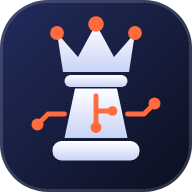
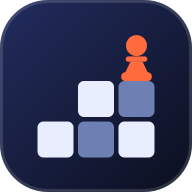
Add files via upload

Changed region(s): [[0.1562, 0.0625, 0.8438, 0.8438], [0.8125, 0.9688, 0.8438, 1.0], [0.1562, 0.9688, 0.1875, 1.0]]

diff --git a/frontend/src/app/dashboard/page.tsx b/frontend/src/app/dashboard/page.tsx
@@ -2,6 +2,13 @@
 import { useEffect, useState } from "react";
 import Link from "next/link";
 import InitBanner from "../../components/InitBanner";
+import type { Lang } from "../../lib/i18n";
+
+const SYNC = {
+  it: { dl: "Scaricate {n} nuove partite.", none: "Nessuna partita nuova da scaricare.", run: "Analizzo {d} di {t} partite…", queued: "C'è già un'analisi in corso: i risultati compaiono man mano.", done: "Fatto: {o} partite analizzate.", fail: "{f} partite non analizzate. Riprova tra poco: se il problema resta, le ritento stanotte." },
+  en: { dl: "Downloaded {n} new games.", none: "No new games to download.", run: "Analyzing {d} of {t} games…", queued: "An analysis is already running: results appear as they are ready.", done: "Done: {o} games analyzed.", fail: "{f} games could not be analyzed. Try again shortly: if it persists, I'll retry tonight." },
+  es: { dl: "Descargadas {n} partidas nuevas.", none: "No hay partidas nuevas que descargar.", run: "Analizando {d} de {t} partidas…", queued: "Ya hay un análisis en curso: los resultados aparecen poco a poco.", done: "Hecho: {o} partidas analizadas.", fail: "{f} partidas sin analizar. Inténtalo de nuevo en breve: si sigue, las reintento esta noche." },
+} as const;
 import { useApp } from "../../components/app";
 import { MultiLineChart } from "../../components/Charts";
 import { K, tr } from "../../lib/i18n";
@@ -98,13 +105,29 @@ export default function Home() {
   }, [ck]);
   useEffect(() => { load(); }, [call]); // eslint-disable-line
 
+  const [job, setJob] = useState<any>(null);
+  const SY = SYNC[lang as Lang] || SYNC.it;
+  const fm = (x: string, v: Record<string, any>) => Object.keys(v).reduce((a, k) => a.split(`{${k}}`).join(String(v[k])), x);
+
+  // Segue l'analisi avviata dal pulsante: aggiorna il contatore finché non finisce
+  useEffect(() => {
+    if (!job || (job.state !== "running" && job.state !== "queued")) return;
+    const t = setTimeout(async () => {
+      try {
+        const j = await call("/sync/status");
+        setJob((p: any) => ({ ...j, imported: p?.imported ?? j.imported }));
+        if (j.state === "done") { bust(); load(); refreshMe(); }
+      } catch {}
+    }, 2500);
+    return () => clearTimeout(t);
+  }, [job, call]); // eslint-disable-line
+
   const sync = async () => {
-    setBusy(true); setErr(""); setInfo("");
+    setBusy(true); setErr(""); setInfo(""); setJob(null);
     try {
       const r = await call("/sync", { method: "POST" });
-      setInfo(tr("syncDone", lang).replace("{n}", r.imported).replace("{a}", r.analyzing));
-      load(); refreshMe();
-      setTimeout(load, 30000);
+      setJob(r.job);
+      if (r.job?.state === "done") { bust(); load(); refreshMe(); }
     } catch (e: any) { setErr(e.message); }
     setBusy(false);
   };
@@ -116,6 +139,19 @@ export default function Home() {
         <button className="btn btn-primary" onClick={sync} disabled={busy}>{busy ? t("syncing") : t("sync")}</button>
       </div>
       <p className="muted small" style={{ marginTop: 0 }}>{me?.auto_sync ? t("autoSyncOn") : <>{t("autoSyncOff")}. <Link href="/dashboard/plans" className="accent">{t("navPlans")}</Link></>}</p>
+      {job && (
+        <div className="card init-banner" role="status" aria-live="polite">
+          <b>{job.imported > 0 ? fm(SY.dl, { n: job.imported }) : SY.none}</b>
+          {job.total > 0 && (job.state === "running" || job.state === "queued") && (
+            <>
+              <div className="muted small" style={{ margin: ".25rem 0" }}>{job.state === "queued" ? SY.queued : fm(SY.run, { d: job.done, t: job.total })}</div>
+              <div className="bar"><div style={{ width: `${job.state === "queued" ? 6 : Math.round((100 * job.done) / job.total)}%`, background: "var(--ember)", transition: "width .6s" }} /></div>
+            </>
+          )}
+          {job.state === "done" && job.total > 0 && <div className="muted small" style={{ marginTop: ".25rem" }}>{fm(SY.done, { o: job.ok })}</div>}
+          {job.state === "done" && job.failed > 0 && <div className="note err" style={{ marginTop: ".5rem" }}>{fm(SY.fail, { f: job.failed })}{job.error ? ` (${job.error})` : ""}</div>}
+        </div>
+      )}
       <InitBanner onDone={() => { bust(); load(); refreshMe(); }} />
       <TodayCard />
       {info && <div className="note">{info}</div>}

diff --git a/frontend/src/components/Logo.tsx b/frontend/src/components/Logo.tsx
@@ -2,36 +2,38 @@ import { useId } from "react";
 import { BRAND } from "../lib/brand";
 
 export function LogoMark({ size = 36 }: { size?: number }) {
+  // Un pedone che sale una scalinata di case della scacchiera: gli scacchi e la crescita dell'Elo in un solo segno.
   const u = useId().replace(/[^a-zA-Z0-9]/g, "");
-  const bg = `lmbg${u}`, pc = `lmpc${u}`;
+  const bg = `lmbg${u}`;
+  const sq: [number, number, string][] = [
+    [12.5, 40.5, "#e9eeff"], [26, 27, "#e9eeff"], [26, 40.5, "#6d7fb3"], [39.5, 27, "#6d7fb3"], [39.5, 40.5, "#e9eeff"],
+  ];
   return (
     <svg width={size} height={size} viewBox="0 0 64 64" aria-hidden="true">
-      <defs>
-        <linearGradient id={bg} x1="0" y1="0" x2="1" y2="1"><stop offset="0" stopColor="#222c5e" /><stop offset="1" stopColor="#0b0f1e" /></linearGradient>
-        <linearGradient id={pc} x1="0" y1="0" x2="0" y2="1"><stop offset="0" stopColor="#ffffff" /><stop offset="1" stopColor="#c9d3f5" /></linearGradient>
-      </defs>
+      <defs><linearGradient id={bg} x1="0" y1="0" x2="1" y2="1"><stop offset="0" stopColor="#222c5e" /><stop offset="1" stopColor="#0b0f1e" /></linearGradient></defs>
       <rect width="64" height="64" rx="16" fill={`url(#${bg})`} />
       <rect x=".5" y=".5" width="63" height="63" rx="15.5" fill="none" stroke="#fff" strokeOpacity=".14" />
-      <g fill={`url(#${pc})`}>
-        <path d="M21 24 L19 11 L26 19 L32 8 L38 19 L45 11 L43 24 Z" />
-        <rect x="21.5" y="25" width="21" height="4" rx="2" />
-        <path d="M25 29.5 H39 L42.5 46 H21.5 Z" />
-        <rect x="17.5" y="47" width="29" height="6.5" rx="3" />
+      {sq.map(([x, y, f]) => <rect key={x + "-" + y} x={x} y={y} width="12" height="12" rx="2" fill={f} />)}
+      <g fill="#ff6b3d" transform="translate(39.5 11.5)">
+        <circle cx="6" cy="3.7" r="3.5" /><rect x="2.4" y="7.3" width="7.2" height="1.8" rx=".9" />
+        <path d="M4 9 H8 L10 13.2 H2 Z" /><rect x=".9" y="12.6" width="10.2" height="2.9" rx="1.3" />
       </g>
-      <g fill="#ff6b3d"><circle cx="19" cy="11" r="2.3" /><circle cx="32" cy="8" r="2.6" /><circle cx="45" cy="11" r="2.3" /></g>
-      <g fill="none" stroke="#ff6b3d" strokeWidth="1.6" strokeLinecap="round" strokeLinejoin="round">
-        <path d="M32 32 V41" /><path d="M32 37 H36.5" /><path d="M42.5 38 H48 L51 35" /><path d="M21.5 38 H16 L13 41" />
-      </g>
-      <g fill="#ff6b3d"><circle cx="32" cy="42.5" r="1.8" /><circle cx="37.5" cy="37" r="1.6" /><circle cx="51.5" cy="34.5" r="2" /><circle cx="12.5" cy="41.5" r="2" /></g>
     </svg>
   );
+}
+
+export function Wordmark() {
+  // "EloRise": la seconda parte prende l'arancio del marchio
+  const i = BRAND.indexOf("Rise");
+  if (i < 1) return <>{BRAND}</>;
+  return <>{BRAND.slice(0, i)}<i>{BRAND.slice(i)}</i></>;
 }
 
 export function Logo({ size = 36, text = true }: { size?: number; text?: boolean }) {
   return (
     <span className="logo">
       <LogoMark size={size} />
-      {text && <span className="logo-text">{BRAND}</span>}
+      {text && <span className="logo-text"><Wordmark /></span>}
     </span>
   );
 }

diff --git a/frontend/src/components/InitBanner.tsx b/frontend/src/components/InitBanner.tsx
@@ -5,11 +5,11 @@ import type { Lang } from "../lib/i18n";
 
 const T = {
   it: { title: "Stiamo preparando la tua analisi", dl: "Sto scaricando le tue partite…", prog: "{a} di {t} partite analizzate", eta: "pronte tra circa {n} min", etaSoon: "quasi pronte",
-        hint: "Puoi usare l'app: i risultati compaiono man mano. Non serve restare su questa pagina.", done: "Analisi completata: {t} partite pronte." },
+        hint: "Puoi usare l'app: i risultati compaiono man mano. Non serve restare su questa pagina.", done: "Analisi completata: {t} partite pronte.", failed: "{f} partite non si sono analizzate. Premi Sincronizza per riprovare." },
   en: { title: "Getting your analysis ready", dl: "Downloading your games…", prog: "{a} of {t} games analyzed", eta: "ready in about {n} min", etaSoon: "almost ready",
-        hint: "You can keep using the app: results appear as they are ready. No need to stay on this page.", done: "Analysis complete: {t} games ready." },
+        hint: "You can keep using the app: results appear as they are ready. No need to stay on this page.", done: "Analysis complete: {t} games ready.", failed: "{f} games could not be analyzed. Press Sync to try again." },
   es: { title: "Estamos preparando tu análisis", dl: "Descargando tus partidas…", prog: "{a} de {t} partidas analizadas", eta: "listas en unos {n} min", etaSoon: "casi listas",
-        hint: "Puedes seguir usando la app: los resultados aparecen poco a poco. No hace falta quedarse en esta página.", done: "Análisis completo: {t} partidas listas." },
+        hint: "Puedes seguir usando la app: los resultados aparecen poco a poco. No hace falta quedarse en esta página.", done: "Análisis completo: {t} partidas listas.", failed: "{f} partidas no se pudieron analizar. Pulsa Sincronizar para reintentar." },
 } as const;
 const f = (s: string, v: Record<string, number>) => Object.keys(v).reduce((a, k) => a.split(`{${k}}`).join(String(v[k])), s);
 
@@ -37,6 +37,7 @@ export default function InitBanner({ onDone }: { onDone: () => void }) {
   }, [call]); // eslint-disable-line
 
   if (just) return <div className="note ok" role="status">{f(L.done, { t: st?.total ?? 0 })}</div>;
+  if (st && st.state === "done" && st.failed > 0) return <div className="note err" role="status">{f(L.failed, { f: st.failed })}{st.error ? ` (${st.error})` : ""}</div>;
   if (!st || st.state !== "working") return null;
   const pct = st.total ? Math.round((100 * st.analyzed) / st.total) : 0;
   return (

diff --git a/backend/app/sync.py b/backend/app/sync.py
@@ -1,6 +1,7 @@
 """Download partite da Lichess / Chess.com, import in `games`, analisi in coda."""
 import datetime
 import threading
+import time
 import io
 import logging
 import re
@@ -13,7 +14,7 @@ from .db import sb
 from .engine import analyze_game
 
 log = logging.getLogger("sync")
-UA = {"User-Agent": "ChessCoachPro/1.0 (support@chesscoachpro.com)"}
+UA = {"User-Agent": "EloRise/1.0 (support@elorise.app)"}
 
 
 def fetch_lichess(username: str, n: int) -> list[str]:
@@ -131,6 +132,10 @@ def analyze_pending(email: str, limit: int) -> None:
 
 _running: set = set()
 _lock = threading.Lock()
+_jobs: dict = {}          # email -> avanzamento dell'ultima sincronizzazione manuale
+_failed: dict = {}        # email -> {id partita: istante} analisi fallite (non si ritentano in loop)
+_last_err: dict = {}      # email -> ultimo motivo di errore, mostrato all'utente
+FAIL_COOLDOWN = 1800      # secondi prima di ritentare una partita fallita
 SECONDS_PER_GAME = 35      # stima per il tempo mostrato all'utente
 
 
@@ -145,6 +150,80 @@ def is_running(email: str) -> bool:
     return email in _running
 
 
+def failed_ids(email: str) -> set:
+    """Partite la cui analisi è fallita da poco: non contano come "in attesa" né si ritentano in continuazione."""
+    now = time.time()
+    f = {k: t for k, t in _failed.get(email, {}).items() if now - t < FAIL_COOLDOWN}
+    _failed[email] = f
+    return set(f)
+
+
+def _fail(email: str, gid: str, e: Exception) -> None:
+    _failed.setdefault(email, {})[gid] = time.time()
+    _last_err[email] = (str(e) or e.__class__.__name__)[:160]
+
+
+def last_error(email: str):
+    return _last_err.get(email)
+
+
+def job_status(email: str) -> dict:
+    j = _jobs.get(email)
+    if not j:
+        return {"state": "idle"}
+    return dict(j, error=_last_err.get(email) if j.get("failed") else None)
+
+
+def start_job(email: str, limit: int, imported: int) -> dict:
+    """Prepara l'analisi delle partite non ancora analizzate (le più recenti prima). Restituisce lo stato iniziale."""
+    _failed.pop(email, None)           # un nuovo clic dà una nuova possibilità a tutte
+    _last_err.pop(email, None)
+    rows = (sb.table("games").select("id").eq("user_email", email).is_("analyzed_at", "null")
+            .not_.is_("user_color", "null").order("played_at", desc=True).limit(limit).execute().data)
+    ids = [r["id"] for r in rows]
+    with _lock:
+        busy = email in _running
+        if ids and not busy:
+            _running.add(email)
+    if not ids:
+        _jobs[email] = {"state": "done", "total": 0, "done": 0, "failed": 0, "imported": imported, "ok": 0}
+    elif busy:
+        _jobs[email] = {"state": "queued", "total": len(ids), "done": 0, "failed": 0, "imported": imported, "ok": 0}
+        ids = []
+    else:
+        _jobs[email] = {"state": "running", "total": len(ids), "done": 0, "failed": 0, "imported": imported, "ok": 0}
+    return {"ids": ids, "status": job_status(email)}
+
+
+def run_job(email: str, ids: list) -> None:
+    """Analizza le partite scelte, aggiornando il contatore dopo ognuna. Un secondo tentativo per le fallite."""
+    j = _jobs[email]
+    try:
+        for g in sorted(sb.table("games").select("*").in_("id", ids).execute().data, key=lambda x: x.get("played_at") or "", reverse=True):
+            ok = False
+            for attempt in (1, 2):
+                try:
+                    analyze_game(g); ok = True; break
+                except Exception as e:
+                    log.warning("analisi %s fallita (%s): %s", g["id"], attempt, e)
+                    if attempt == 2:
+                        _fail(email, g["id"], e)
+                    else:
+                        time.sleep(1.5)
+            j["done"] += 1
+            j["ok"] += ok
+            j["failed"] += (not ok)
+        try:
+            from .train import assign_cards
+            assign_cards(email)
+        except Exception as e:
+            log.warning("carte %s: %s", email, e)
+    finally:
+        j["state"] = "done"
+        with _lock:
+            _running.discard(email)
+
+
 def analyze_initial(email: str, tier: str) -> None:
     """Analizza TUTTE le partite iniziali del piano, dalla più recente, a piccoli gruppi. Una sola esecuzione per utente."""
     with _lock:
@@ -154,7 +233,8 @@ def analyze_initial(email: str, tier: str) -> None:
     tried: set = set()
     try:
         while True:
-            todo = [r["id"] for r in initial_rows(email, tier) if not r["analyzed_at"] and r["id"] not in tried][:4]
+            bad = failed_ids(email)
+            todo = [r["id"] for r in initial_rows(email, tier) if not r["analyzed_at"] and r["id"] not in tried and r["id"] not in bad][:4]
             if not todo:
                 break
             tried.update(todo)
@@ -163,6 +243,7 @@ def analyze_initial(email: str, tier: str) -> None:
                     analyze_game(g)
                 except Exception as e:
                     log.warning("analisi iniziale %s fallita: %s", g["id"], e)
+                    _fail(email, g["id"], e)
             try:  # le carte si assegnano man mano
                 from .train import assign_cards
                 assign_cards(email)

diff --git a/backend/app/main.py b/backend/app/main.py
@@ -19,7 +19,7 @@ from .db import sb
 from .engine import analyze_game
 from . import cache, mailer
 from .auth import current_user, tier_from, tier_of
-from .sync import SECONDS_PER_GAME, analyze_initial, analyze_pending, import_history, initial_rows, is_running, onboard, run_cron, sync_user
+from .sync import SECONDS_PER_GAME, analyze_initial, analyze_pending, failed_ids, import_history, initial_rows, is_running, job_status, last_error, onboard, run_cron, start_job, run_job, sync_user
 from .promo import attribute_checkout, attribute_renewal, checkout_discount, is_admin, promo_for, router as promo_router
 from .train import router as train_router
 
@@ -31,7 +31,7 @@ GEMINI_MODEL_FREE = os.environ.get("GEMINI_MODEL_FREE", "gemini-3.5-flash-lite")
 
 log = logging.getLogger("main")
 
-app = FastAPI(title="Chess Coach API")
+app = FastAPI(title="EloRise API")
 app.include_router(train_router)
 app.include_router(promo_router)
 app.add_middleware(CORSMiddleware, allow_origins=[FRONTEND_URL], allow_methods=["*"], allow_headers=["*"])
@@ -503,12 +503,15 @@ def onboarding_status(bg: BackgroundTasks, u=Depends(current_user)):
         return {"state": "no_profile"}
     rows = initial_rows(email, tier)
     target = get_plan(tier).initial_games
-    pending = sum(1 for r in rows if not r["analyzed_at"])
+    bad = failed_ids(email)
+    pending = sum(1 for r in rows if not r["analyzed_at"] and r["id"] not in bad)
+    failed = sum(1 for r in rows if not r["analyzed_at"] and r["id"] in bad)
     importing = any(not p.get("last_sync_at") for p in profs)
     if not importing and pending and not is_running(email):
         bg.add_task(analyze_initial, email, tier)  # se il server era stato riavviato, riprende da dove era rimasto
     state = "working" if (importing or pending) else "done"
-    return {"state": state, "target": target, "total": len(rows), "analyzed": len(rows) - pending, "pending": pending,
+    return {"state": state, "target": target, "total": len(rows), "analyzed": len(rows) - pending - failed, "pending": pending,
+            "failed": failed, "error": last_error(email) if failed else None,
             "importing": importing, "eta_min": max(1, round(pending * SECONDS_PER_GAME / 60)) if pending else 0}
 
 
@@ -522,13 +525,20 @@ def sync_history(bg: BackgroundTasks, u=Depends(current_user)):
 
 @app.post("/sync")
 def sync(bg: BackgroundTasks, n: int = 15, u=Depends(current_user)):
+    """Scarica le ultime partite e le analizza subito: il contatore si segue con GET /sync/status."""
     tier = tier_of(u["email"])
     imported = sync_user(u["email"], max(5, min(n, 100)))
     cache.bust(u["email"])
-    limit = 3 if tier == "Free" else 8
-    bg.add_task(analyze_pending, u["email"], limit)
-    pending = sb.table("games").select("id", count="exact").eq("user_email", u["email"]).is_("analyzed_at", "null").not_.is_("user_color", "null").execute().count or 0
-    return {"imported": imported, "analyzing": min(limit, pending), "pending": pending}
+    limit = 3 if tier == "Free" else 40
+    job = start_job(u["email"], limit, imported)
+    if job["ids"]:
+        bg.add_task(run_job, u["email"], job["ids"])
+    return {"imported": imported, "job": job["status"]}
+
+
+@app.get("/sync/status")
+def sync_status(u=Depends(current_user)):
+    return job_status(u["email"])
 
 
 @app.post("/games/{game_id}/analyze")

diff --git a/README.md b/README.md
@@ -153,3 +153,16 @@ Sonda sul dataset Lichess/chess-position-evaluations: workflow `lichess-eval-pro
 `analyze.yml` lo installa con apt. In `eval_cache` ogni posizione ha la sua profondità: con il motore locale si riusano solo valutazioni da almeno
 `LOCAL_DEPTH − 2` e quelle più profonde sostituiscono le superficiali (funzione SQL `eval_cache_put`, in `supabase/011_eval_cache.sql`: rieseguilo).
 Le analisi fatte sul server (primo caricamento di un utente) restano a profondità 12.
+
+## v3.7 – Nuovo nome: EloRise
+- Il nome è in un solo posto: `frontend/src/lib/brand.ts` (`BRAND`, `SUPPORT`). Il logo scrive "Elo" in bianco e "Rise" in arancio (`Wordmark` in `Logo.tsx`).
+- Sostituito "Chess Coach" in app, PWA (manifest, offline), email (`mailer.py`), titolo API, User-Agent, template Supabase, nomi file e hashtag di condivisione.
+- Da fare a mano: acquistare `elorise.app`, impostare `FRONTEND_URL`, `MAIL_FROM` ("EloRise <noreply@elorise.app>") e `MAIL_REPLY_TO` (Vercel/Render), verificare il dominio su Resend, creare la casella `support@elorise.app` (compare nello User-Agent verso Lichess/Chess.com) e rinominare il template email su Supabase (Auth > Email Templates, incolla `supabase/email-templates/confirm-signup.html`).
+- Stripe: i prodotti già creati si rinominano dalla dashboard (lo script cambia solo i nuovi).
+- Home: scacchiera giocabile (`PlayBoard.tsx`, testi in `lib/play-copy.ts`). Il Coach commenta ogni mossa del Bianco; il Nero risponde con una euristica semplice. Il punteggio mostrato è dimostrativo.
+
+## v3.8 – Sincronizza che analizza + nuovo logo
+- **Sincronizza** ora scarica, mostra "Scaricate N nuove partite" e le analizza subito con un contatore reale ("Analizzo 3 di 8"). Endpoint `GET /sync/status`. Free: 3 partite per clic, piani a pagamento: fino a 40.
+- **Contatore fermo (43/50):** le partite non analizzate venivano ritentate all'infinito se il motore online falliva. Ora ogni partita fallita si riprova una volta, poi si ferma per 30 minuti e l'app dice quante sono e perché (testo dell'errore). Un nuovo clic su Sincronizza le riprova tutte.
+- **Motore sul server (consigliato):** `backend/scripts/get_stockfish.sh` scarica Stockfish durante la build su Render. Build Command: `pip install -r requirements.txt && bash scripts/get_stockfish.sh`; variabile `STOCKFISH_PATH` = percorso stampato nell'ultima riga del log (`.../backend/bin/stockfish`). Script non provato qui: controlla il log di build.
+- **Logo nuovo:** un pedone che sale una scalinata di case della scacchiera. Cartella `brand/`: icona, marchio a colori, in nero, in bianco, a due colori, e lockup con "EloRise" già trasformato in tracciati. File dell'app (icon, apple-touch, maskable, og) rigenerati.
